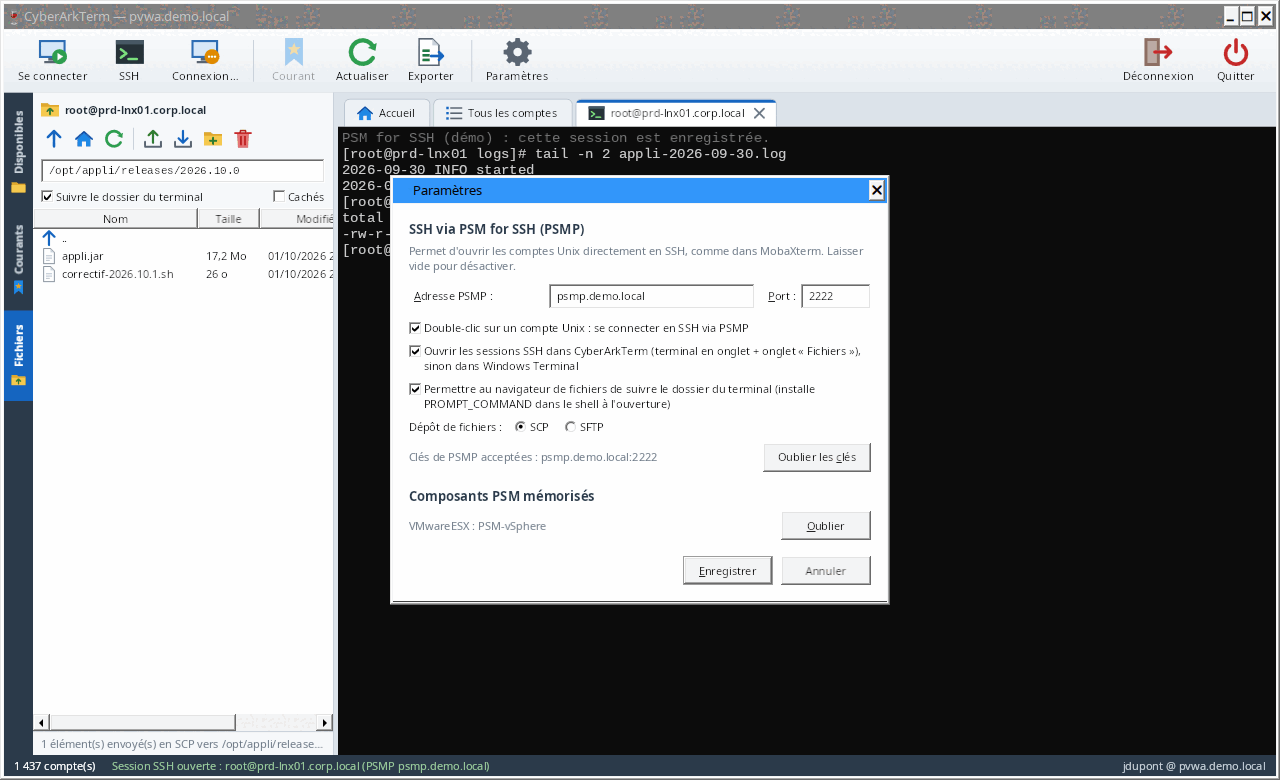
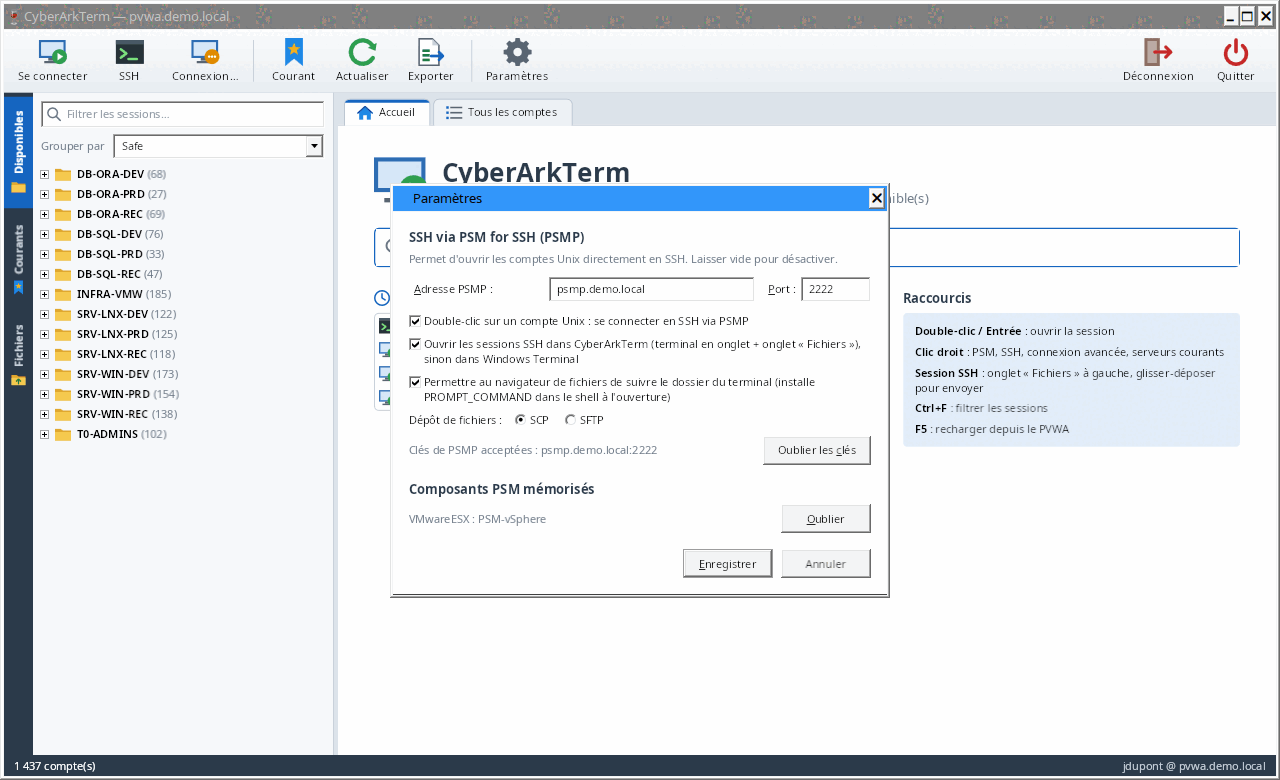
Nettoyage
Claude-Session: https://claude.ai/code/session_01EyGJnsvMwUoy4JFWLgYjGm

diff --git a/src/CyberArkTerm.App/Theme.xaml b/src/CyberArkTerm.App/Theme.xaml
@@ -1,7 +1,7 @@
 <ResourceDictionary xmlns="http://schemas.microsoft.com/winfx/2006/xaml/presentation"
                     xmlns:x="http://schemas.microsoft.com/winfx/2006/xaml">
 
-    <!-- Palette inspirée de MobaXterm : barre d'outils claire, bandeau latéral sombre, accent bleu. -->
+    <!-- Palette : barre d'outils claire, bandeau latéral sombre, accent bleu. -->
     <SolidColorBrush x:Key="AccentBrush" Color="#1565C0" />
     <SolidColorBrush x:Key="AccentLightBrush" Color="#E3EEFB" />
     <SolidColorBrush x:Key="ToolbarBorderBrush" Color="#C9D1DA" />
@@ -397,7 +397,7 @@
 
     <!-- ===== Styles ===== -->
 
-    <!-- Gros bouton icône + libellé de la barre d'outils (comme « Session », « Servers »... dans MobaXterm). -->
+    <!-- Gros bouton icône + libellé de la barre d'outils. -->
     <Style x:Key="ToolButton" TargetType="Button">
         <Setter Property="MinWidth" Value="66" />
         <Setter Property="Padding" Value="6,3" />

diff --git a/src/CyberArkTerm.App/Views/SettingsDialog.xaml b/src/CyberArkTerm.App/Views/SettingsDialog.xaml
@@ -7,7 +7,7 @@
     <StackPanel Margin="16">
         <TextBlock Text="SSH via PSM for SSH (PSMP)" Style="{StaticResource SectionTitle}" />
         <TextBlock Foreground="{StaticResource MutedBrush}" TextWrapping="Wrap" Margin="0,0,0,10"
-                   Text="Permet d'ouvrir les comptes Unix directement en SSH, comme dans MobaXterm. Laisser vide pour désactiver." />
+                   Text="Permet d'ouvrir les comptes Unix directement en SSH. Laisser vide pour désactiver." />
         <Grid Margin="0,0,0,8">
             <Grid.ColumnDefinitions>
                 <ColumnDefinition Width="140" />

diff --git a/src/CyberArkTerm.App/Views/MainWindow.Ssh.cs b/src/CyberArkTerm.App/Views/MainWindow.Ssh.cs
@@ -62,7 +62,7 @@ public partial class MainWindow
         header.Children.Add(new Image { Source = (System.Windows.Media.ImageSource)FindResource("IconSsh"), Width = 16, Height = 16, Margin = new Thickness(0, 0, 6, 0) });
         header.Children.Add(new TextBlock { Text = label, VerticalAlignment = VerticalAlignment.Center });
         header.Children.Add(close);
-        // Clic molette sur l'onglet : fermeture, comme dans MobaXterm.
+        // Clic molette sur l'onglet : fermeture.
         header.MouseDown += (_, e) =>
         {
             if (e.ChangedButton == MouseButton.Middle)

diff --git a/src/CyberArkTerm.App/Views/FileBrowserPanel.xaml.cs b/src/CyberArkTerm.App/Views/FileBrowserPanel.xaml.cs
@@ -10,7 +10,7 @@ using Microsoft.Win32;
 namespace CyberArkTerm.App.Views;
 
 /// <summary>
-/// Onglet latéral « Fichiers » (comme le navigateur SFTP de MobaXterm) : parcourt le serveur de la session SSH
+/// Onglet latéral « Fichiers » (navigateur SFTP) : parcourt le serveur de la session SSH
 /// active, dépose des fichiers par glisser-déposer (SCP ou SFTP), supprime, télécharge, et peut suivre
 /// le dossier courant du terminal.
 /// </summary>

diff --git a/src/CyberArkTerm.App/Terminal/TerminalView.cs b/src/CyberArkTerm.App/Terminal/TerminalView.cs
@@ -7,7 +7,7 @@ using CyberArkTerm.Core.Terminal;
 namespace CyberArkTerm.App.Terminal;
 
 /// <summary>
-/// Affichage d'un <see cref="TerminalEmulator"/> et saisie clavier, à la manière de MobaXterm :
+/// Affichage d'un <see cref="TerminalEmulator"/> et saisie clavier :
 /// sélection = copie, clic droit = collage, molette = historique.
 /// </summary>
 public sealed class TerminalView : FrameworkElement

diff --git a/src/CyberArkTerm.App/Views/MainWindow.xaml.cs b/src/CyberArkTerm.App/Views/MainWindow.xaml.cs
@@ -15,7 +15,7 @@ using Microsoft.Win32;
 namespace CyberArkTerm.App.Views;
 
 /// <summary>
-/// Fenêtre principale « à la MobaXterm » : barre d'outils, arbre des sessions à gauche,
+/// Fenêtre principale : barre d'outils, arbre des sessions à gauche,
 /// onglets Accueil / Tous les comptes, connexion PSM ou SSH (PSMP) sur double-clic.
 /// </summary>
 public partial class MainWindow : Window

diff --git a/src/CyberArkTerm.Core/Terminal/TerminalColor.cs b/src/CyberArkTerm.Core/Terminal/TerminalColor.cs
@@ -9,7 +9,7 @@ public static class TerminalColor
 
     private const int RgbFlag = 0x1000000;
 
-    // Palette 16 couleurs proche de celle de MobaXterm / Windows Terminal (« Campbell »).
+    // Palette 16 couleurs « Campbell » (celle de Windows Terminal).
     private static readonly uint[] Base16 =
     [
         0x0C0C0C, 0xC50F1F, 0x13A10E, 0xC19C00, 0x0037DA, 0x881798, 0x3A96DD, 0xCCCCCC,

diff --git a/README.md b/README.md
@@ -2,7 +2,7 @@
 
 [![build](https://github.com/muller-camille/CyberArkTerm/actions/workflows/build.yml/badge.svg)](https://github.com/muller-camille/CyberArkTerm/actions/workflows/build.yml)
 
-**Client Windows « façon MobaXterm » pour CyberArk.** CyberArkTerm se connecte à votre PVWA, liste les comptes
+**Client Windows multi-sessions pour CyberArk.** CyberArkTerm se connecte à votre PVWA, liste les comptes
 auxquels vous avez accès et ouvre vos sessions en un double-clic : bureau à distance via **PSM**, ou terminal
 SSH via **PSM for SSH (PSMP)** avec un **navigateur de fichiers** intégré pour déposer des fichiers sur le
 serveur.
@@ -122,7 +122,7 @@ La session s'ouvre **dans un onglet de CyberArkTerm**, avec l'identifiant PSMP s
   SFTP et SCP du même onglet, jamais enregistré.
 - **Clé du PSMP** : à la première connexion, son empreinte SHA256 est affichée et doit être acceptée ; si elle
   change ensuite, une alerte s'affiche.
-- **Terminal** : la sélection copie, le clic droit colle (comme MobaXterm), la molette remonte l'historique,
+- **Terminal** : la sélection copie, le clic droit colle, la molette remonte l'historique,
   AltGr fonctionne sur clavier français. Fermez l'onglet avec la croix ou un clic molette.
 
 ### 5. Parcourir et déposer des fichiers : onglet « Fichiers »
